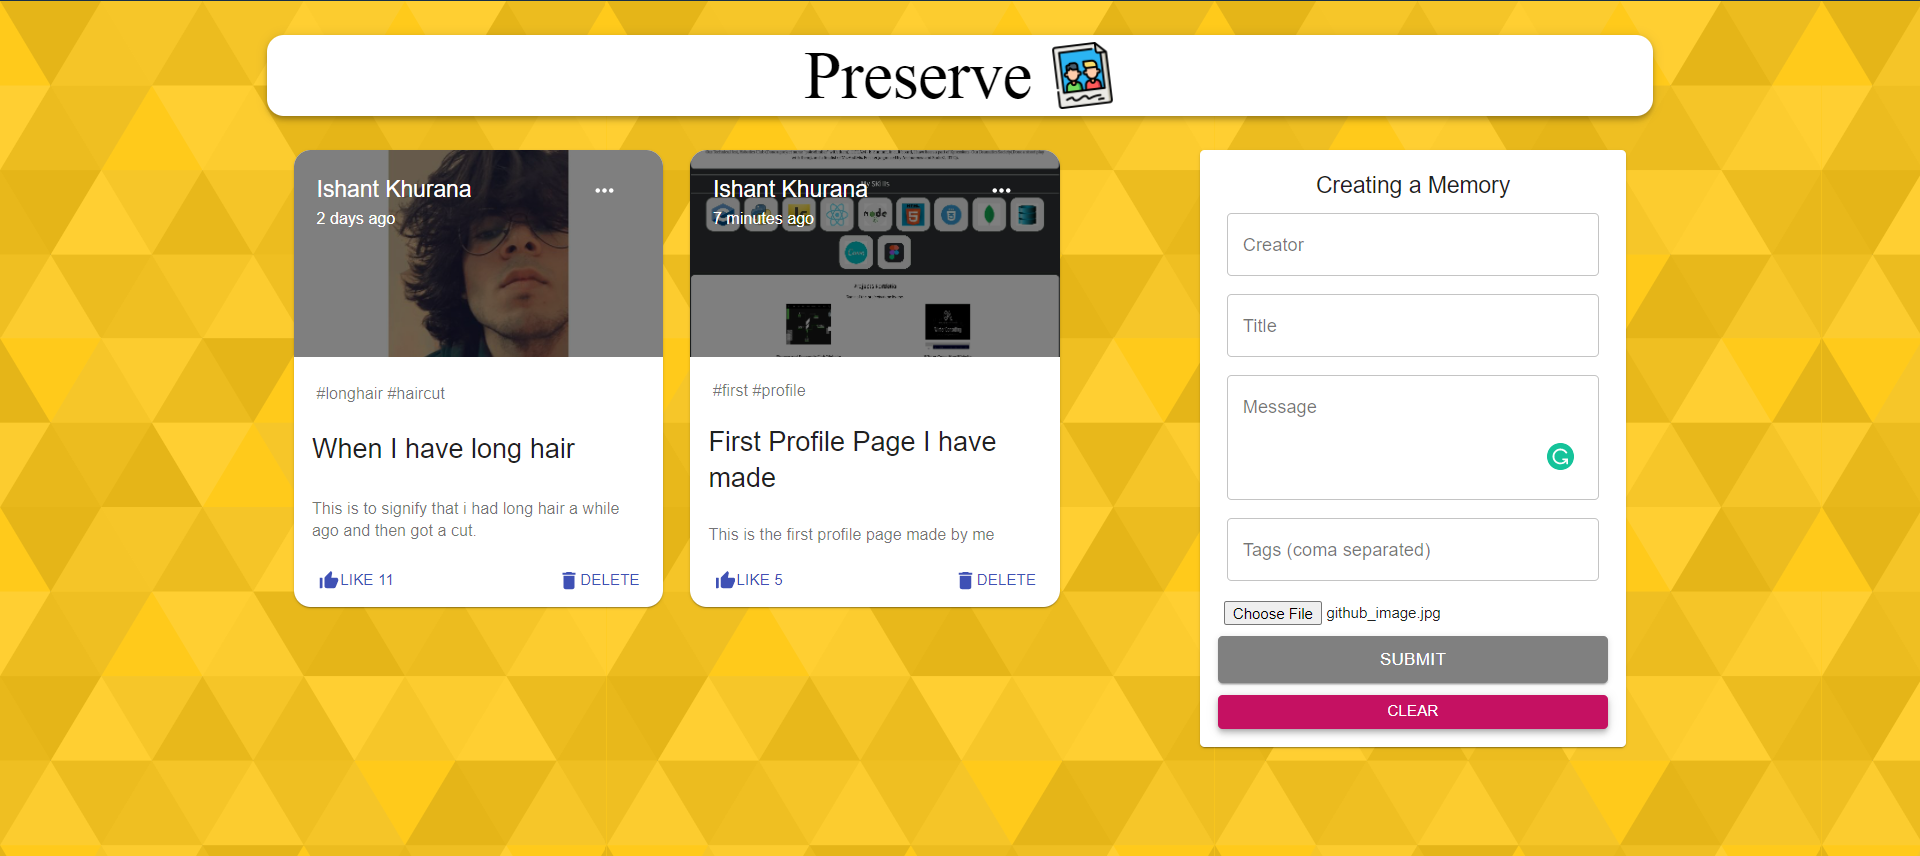
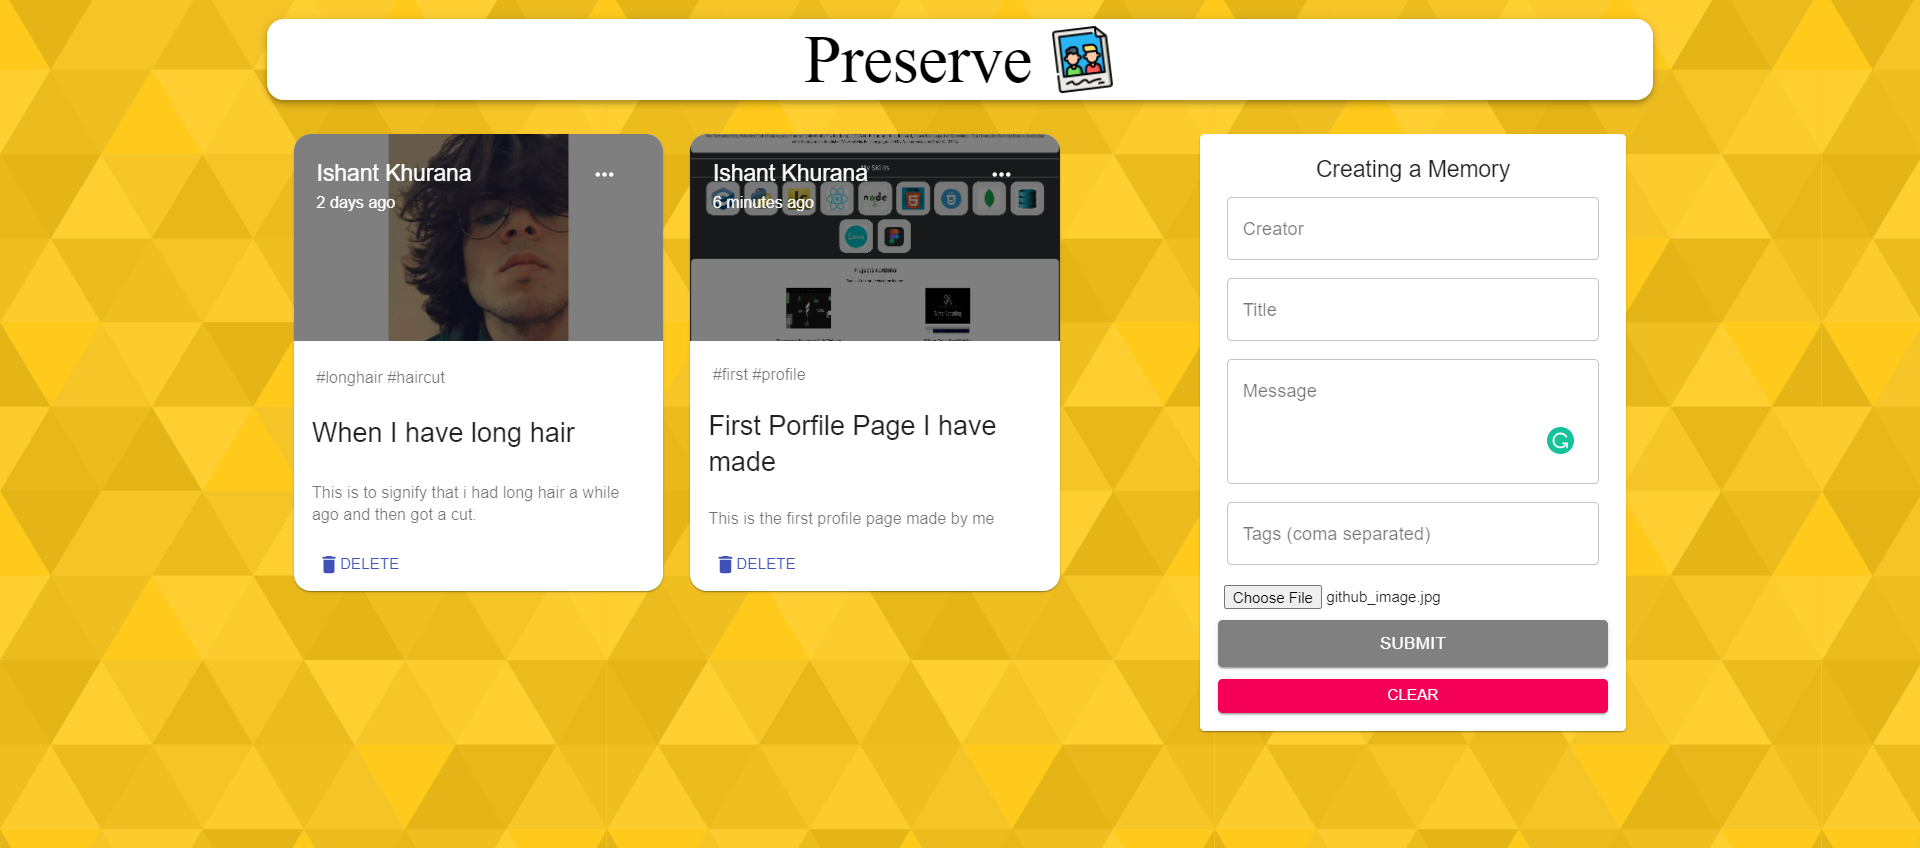
Updated_part_2

diff --git a/client/src/components/Posts/Post/Post.js b/client/src/components/Posts/Post/Post.js
@@ -1,12 +1,11 @@
 import React from 'react';
 import { Card, CardActions, CardContent, CardMedia, Button, Typography } from '@material-ui/core/';
-import ThumbUpAltIcon from '@material-ui/icons/ThumbUpAlt';
 import DeleteIcon from '@material-ui/icons/Delete';
 import MoreHorizIcon from '@material-ui/icons/MoreHoriz';
 import moment from 'moment';
 import { useDispatch } from 'react-redux';
 
-import { likePost, deletePost } from '../../../actions/posts';
+import { deletePost } from '../../../actions/posts';
 import useStyles from './styles';
 
 const Post = ({ post, setCurrentId }) => {
@@ -31,7 +30,6 @@ const Post = ({ post, setCurrentId }) => {
         <Typography variant="body2" color="textSecondary" component="p">{post.message}</Typography>
       </CardContent>
       <CardActions className={classes.cardActions}>
-        <Button size="small" color="primary" onClick={() => dispatch(likePost(post._id))}><ThumbUpAltIcon fontSize="small" /> Like {post.likeCount} </Button>
         <Button size="small" color="primary" onClick={() => dispatch(deletePost(post._id))}><DeleteIcon fontSize="small" /> Delete</Button>
       </CardActions>
     </Card>

diff --git a/client/src/actions/posts.js b/client/src/actions/posts.js
@@ -1,4 +1,4 @@
-import { FETCH_ALL, CREATE, UPDATE, DELETE, LIKE } from '../constants/actionTypes';
+import { FETCH_ALL, CREATE, UPDATE, DELETE } from '../constants/actionTypes';
 
 import * as api from '../api/index.js';
 
@@ -27,16 +27,6 @@ export const updatePost = (id, post) => async (dispatch) => {
     const { data } = await api.updatePost(id, post);
 
     dispatch({ type: UPDATE, payload: data });
-  } catch (error) {
-    console.log(error.message);
-  }
-};
-
-export const likePost = (id) => async (dispatch) => {
-  try {
-    const { data } = await api.likePost(id);
-
-    dispatch({ type: LIKE, payload: data });
   } catch (error) {
     console.log(error.message);
   }

diff --git a/server/controllers/posts.js b/server/controllers/posts.js
@@ -64,17 +64,6 @@ export const deletePost = async (req, res) => {
     res.json({ message: "Post deleted successfully." });
 }
 
-export const likePost = async (req, res) => {
-    const { id } = req.params;
-
-    if (!mongoose.Types.ObjectId.isValid(id)) return res.status(404).send(`No post with id: ${id}`);
-    
-    const post = await PostMessage.findById(id);
-
-    const updatedPost = await PostMessage.findByIdAndUpdate(id, { likeCount: post.likeCount + 1 }, { new: true });
-    
-    res.json(updatedPost);
-}
 
 
 export default router;

diff --git a/server/routes/posts.js b/server/routes/posts.js
@@ -1,6 +1,6 @@
 import express from 'express';
 
-import { getPosts, getPost, createPost, updatePost, likePost, deletePost } from '../controllers/posts.js';
+import { getPosts, getPost, createPost, updatePost,  deletePost } from '../controllers/posts.js';
 
 const router = express.Router();
 
@@ -9,6 +9,5 @@ router.post('/', createPost);
 router.get('/:id', getPost);
 router.patch('/:id', updatePost);
 router.delete('/:id', deletePost);
-router.patch('/:id/likePost', likePost);
 
 export default router;

diff --git a/client/src/reducers/posts.js b/client/src/reducers/posts.js
@@ -1,11 +1,9 @@
-import { FETCH_ALL, CREATE, UPDATE, DELETE, LIKE } from '../constants/actionTypes';
+import { FETCH_ALL, CREATE, UPDATE, DELETE } from '../constants/actionTypes';
 
 export default (posts = [], action) => {
   switch (action.type) {
     case FETCH_ALL:
       return action.payload;
-    case LIKE:
-      return posts.map((post) => (post._id === action.payload._id ? action.payload : post));
     case CREATE:
       return [...posts, action.payload];
     case UPDATE:

diff --git a/client/src/api/index.js b/client/src/api/index.js
@@ -4,6 +4,5 @@ const url = 'http://localhost:5000/posts';
 
 export const fetchPosts = () => axios.get(url);
 export const createPost = (newPost) => axios.post(url, newPost);
-export const likePost = (id) => axios.patch(`${url}/${id}/likePost`);
 export const updatePost = (id, updatedPost) => axios.patch(`${url}/${id}`, updatedPost);
 export const deletePost = (id) => axios.delete(`${url}/${id}`);

diff --git a/server/models/postMessage.js b/server/models/postMessage.js
@@ -6,10 +6,6 @@ const postSchema = mongoose.Schema({
     creator: String,
     tags: [String],
     selectedFile: String,
-    likeCount: {
-        type: Number,
-        default: 0,
-    },
     createdAt: {
         type: Date,
         default: new Date(),

diff --git a/client/src/constants/actionTypes.js b/client/src/constants/actionTypes.js
@@ -2,4 +2,3 @@ export const CREATE = 'CREATE';
 export const UPDATE = 'UPDATE';
 export const DELETE = 'DELETE';
 export const FETCH_ALL = 'FETCH_ALL';
-export const LIKE = 'LIKE';
